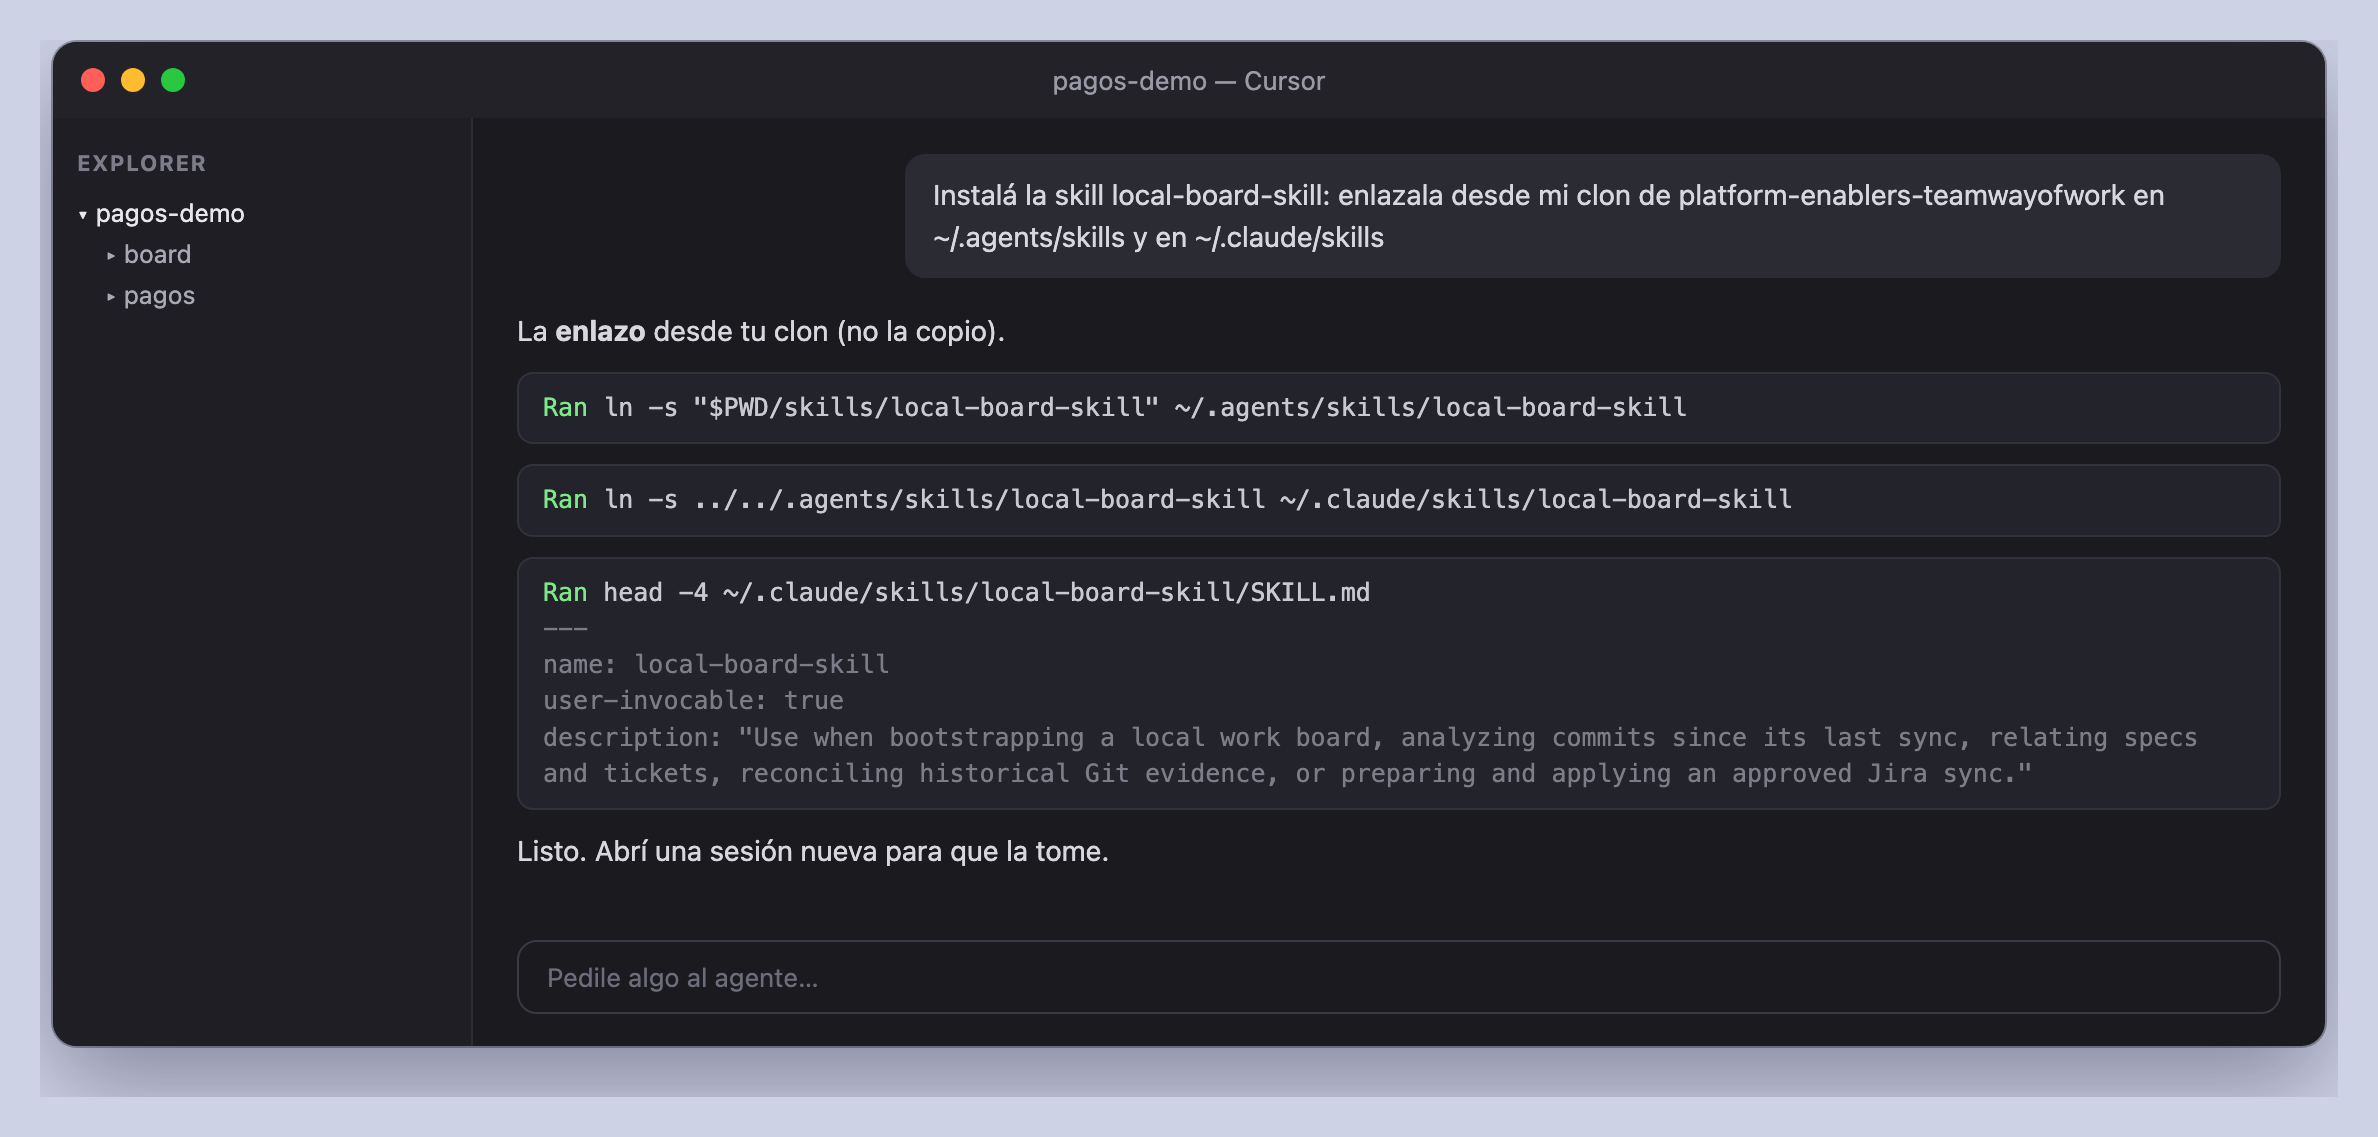
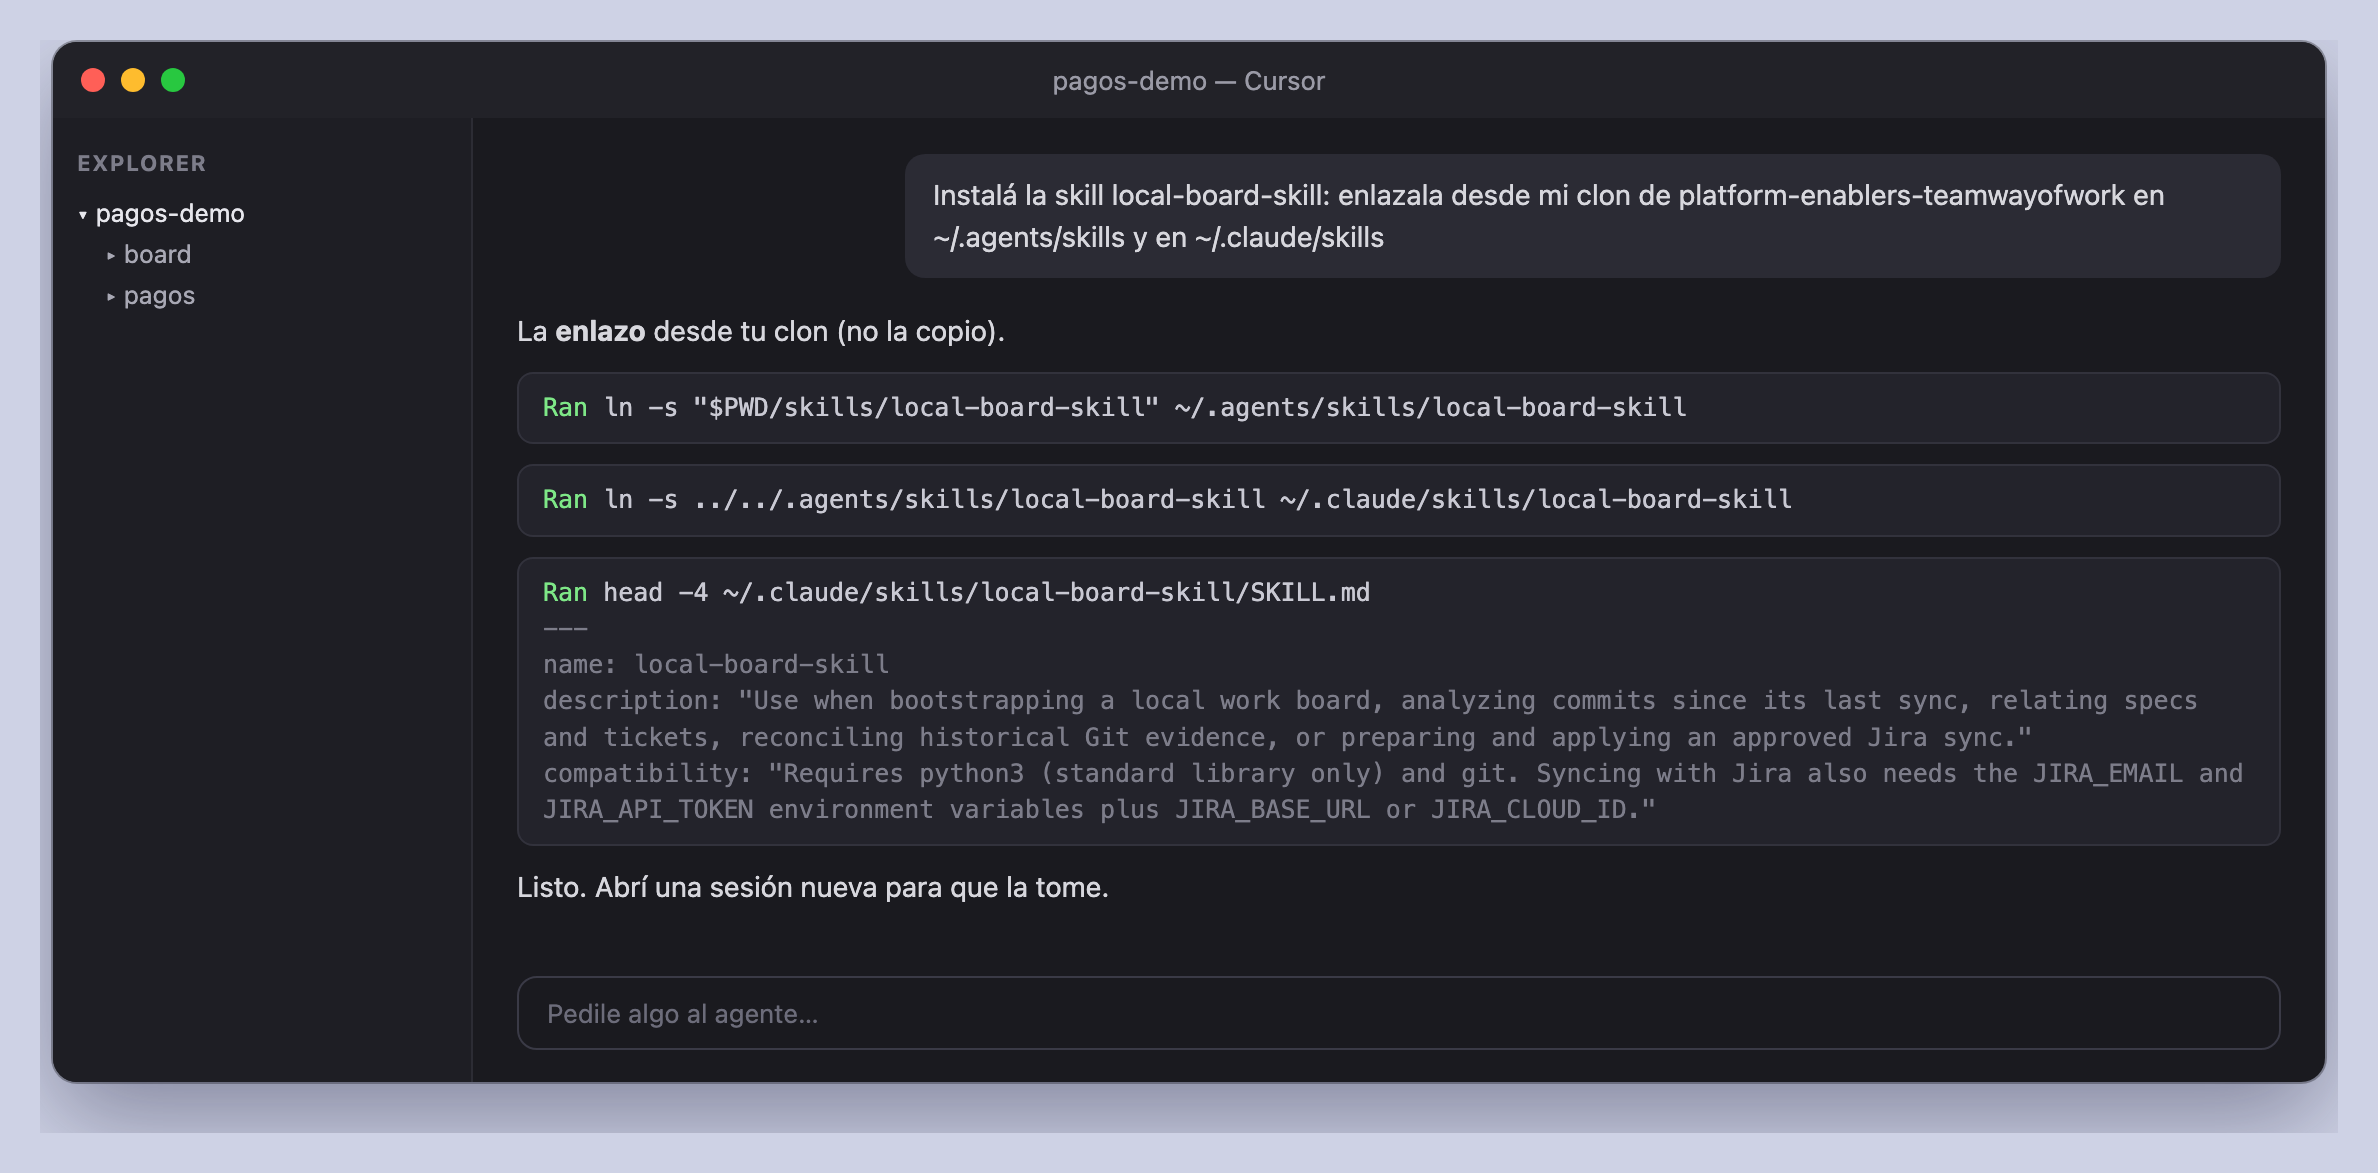
docs: actualizar la captura del SKILL.md de local-board-skill con su frontmatter real
La captura mostraba user-invocable (borrado en este PR) y no la linea
compatibility. El head -4 ahora sale de la skill de esta rama.

diff --git a/skills/local-board-skill/docs/img/src/cursor-instalar.html b/skills/local-board-skill/docs/img/src/cursor-instalar.html
@@ -18,5 +18,5 @@ code{font:12.5px Menlo,monospace;background:#2b2b34;padding:1px 5px;border-radiu
 .right{flex:1;display:flex;flex-direction:column;min-width:0}</style><div class="win"><div class="bar"><div class="dots"><span class="r"></span><span class="y"></span><span class="g"></span></div><div class="ttl">pagos-demo — Cursor</div></div><div class="main"><div class="side"><b>EXPLORER</b><div class="hot">▾ pagos-demo</div><div class="i">▸ board</div><div class="i">▸ pagos</div></div><div class="right"><div class="chat"><div class="u">Instalá la skill local-board-skill: enlazala desde mi clon de teamwayofwork en ~/.agents/skills y en ~/.claude/skills</div><div class="a"><p>La <b>enlazo</b> desde tu clon (no la copio).</p><span class="chip"><em>Ran</em> ln -s &quot;$PWD/skills/local-board-skill&quot; ~/.agents/skills/local-board-skill</span><span class="chip"><em>Ran</em> ln -s ../../.agents/skills/local-board-skill ~/.claude/skills/local-board-skill</span><span class="chip"><em>Ran</em> head -4 ~/.claude/skills/local-board-skill/SKILL.md
 <span>---
 name: local-board-skill
-user-invocable: true
-description: &quot;Use when bootstrapping a local work board, analyzing commits since its last sync, relating specs and tickets, reconciling historical Git evidence, or preparing and applying an approved Jira sync.&quot;</span></span><p>Listo. Abrí una sesión nueva para que la tome.</p></div></div><div class="in">Pedile algo al agente…</div></div></div></div>
+description: &quot;Use when bootstrapping a local work board, analyzing commits since its last sync, relating specs and tickets, reconciling historical Git evidence, or preparing and applying an approved Jira sync.&quot;
+compatibility: &quot;Requires python3 (standard library only) and git. Syncing with Jira also needs the JIRA_EMAIL and JIRA_API_TOKEN environment variables plus JIRA_BASE_URL or JIRA_CLOUD_ID.&quot;</span></span><p>Listo. Abrí una sesión nueva para que la tome.</p></div></div><div class="in">Pedile algo al agente…</div></div></div></div>
